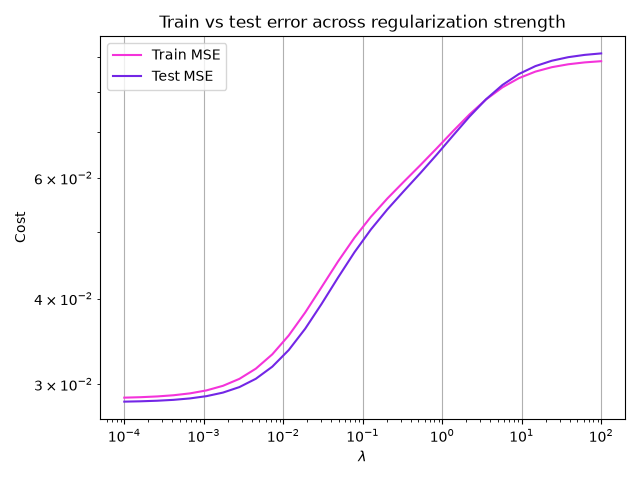
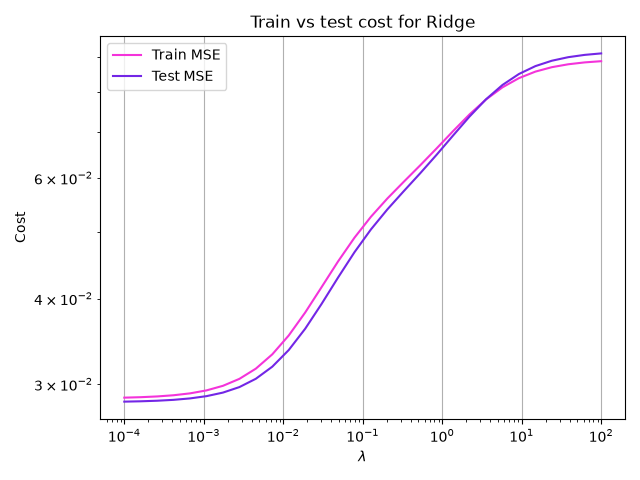
and more figures

Changed region(s): [[0.25, 0.0312, 0.875, 0.0625]]

diff --git a/Project_1/Code/_Part_e.py b/Project_1/Code/_Part_e.py
@@ -62,19 +62,6 @@ theta_Ridge = history_Ridge[-1]
 cost_OLS = cost_history(history_OLS, X, y, penalty="None")
 cost_Ridge = cost_history(history_Ridge, X, y, lmbda=lam, penalty="L2")
 
-"""Plot of cost vs iteration"""
-plt.plot(cost_OLS, label = "OLS", color = "#F433DA")
-plt.plot(cost_Ridge, label = "Ridge", color = "#7326E6")
-plt.xlabel("Iteration")
-plt.ylabel("Cost")
-plt.title("Cost function of gradient descent")
-plt.xscale("log")
-#plt.yscale("log")
-plt.grid()
-plt.legend()
-#plt.savefig("Part_e_costfunc_OLS_Ridge.png")
-plt.show()
-
 """Closed form to compare to"""
 theta_cf_OLS = closed_form(X, y)
 theta_cf_Ridge = closed_form(X, y, lmbda = lam)
@@ -150,6 +137,35 @@ plt.grid(True, which='both', alpha=0.3)
 plt.show()
 
 
+"""The cost, but now with the optimal learning rate"""
+history_OLS_best, n_OLS_best = gradient_descent(X, y, best_gamma_OLS)
+history_Ridge_best, n_Ridge_best = gradient_descent(X, y, best_gamma_Ridge, lam)
+theta_OLS_best = history_OLS_best[-1]
+theta_Ridge_best = history_Ridge_best[-1]
+
+"""Cost of OLS and Ridge, for each theta value"""
+cost_OLS_best = cost_history(history_OLS_best, X, y, penalty="None")
+cost_Ridge_best = cost_history(history_Ridge_best, X, y, lmbda=lam, penalty="L2")
+
+print(f'OLS:    theta: |gamma_max - gamma_best| = {np.max(np.abs(theta_OLS - theta_OLS_best)):.3e}, converges after {n_OLS_best} iterations')
+print(f'Ridge:  theta: |gamma_max - gamma_best| = {np.max(np.abs(theta_Ridge - theta_Ridge_best)):.3e}, converges after {n_Ridge_best} iterations')
+
+"""Plot of cost vs iteration"""
+plt.plot(cost_OLS_best, label = "OLS, $\\gamma_{best}$", color = "#F433DA")
+plt.plot(cost_Ridge_best, label = "Ridge, $\\gamma_{best}$", color = "#7326E6")
+plt.plot(cost_OLS, label = "OLS, $\\gamma_{max}$", color = "#F433DA", linestyle = "--")
+plt.plot(cost_Ridge, label = "Ridge, $\\gamma_{max}$", color = "#7326E6", linestyle = "--")
+plt.xlabel("Iteration")
+plt.ylabel("Cost")
+plt.title("Cost function of gradient descent with $\\gamma_{best}$ and $\\gamma_{max}$")
+plt.xscale("log")
+#plt.yscale("log")
+plt.grid()
+plt.legend()
+#plt.savefig("Part_e_costfunc_OLS_Ridge.png")
+plt.show()
+
+
 """Plot of convergence as a func of different learning rate"""
 """OLS"""
 gammas_OLS = [0.1 * gamma_max_OLS, 0.5 * gamma_max_OLS, 1.001 * gamma_max_OLS, best_gamma_OLS]
@@ -196,13 +212,13 @@ plt.show()
 
 """Comparing the trained data and the test data"""
 n_test = X_test.shape[0]
-cost_test_OLS = cost(theta_OLS, X_test, y_test, penalty = "None")
-cost_test_Ridge = cost(theta_Ridge, X_test, y_test, lmbda=lam, penalty = "L2")
+cost_test_OLS = cost(theta_OLS_best, X_test, y_test, penalty = "None")
+cost_test_Ridge = cost(theta_Ridge_best, X_test, y_test, lmbda=lam, penalty = "L2")
 test_vals = [cost_test_OLS, cost_test_Ridge]
 
 n_train = X.shape[0]
-cost_train_OLS = cost(theta_OLS, X, y, penalty = "None")
-cost_train_Ridge = cost(theta_Ridge, X, y, lmbda=lam, penalty = "L2")
+cost_train_OLS = cost(theta_OLS_best, X, y, penalty = "None")
+cost_train_Ridge = cost(theta_Ridge_best, X, y, lmbda=lam, penalty = "L2")
 train_vals = [cost_train_OLS, cost_train_Ridge]
 
 labels = ["OLS", "Ridge"]
@@ -243,7 +259,7 @@ plt.xscale("log")
 plt.yscale("log")
 plt.xlabel(r"$\lambda$")
 plt.ylabel("Cost")
-plt.title("Train vs test error across regularization strength")
+plt.title("Train vs test cost for Ridge")
 plt.legend()
 plt.tight_layout()
 plt.grid()
